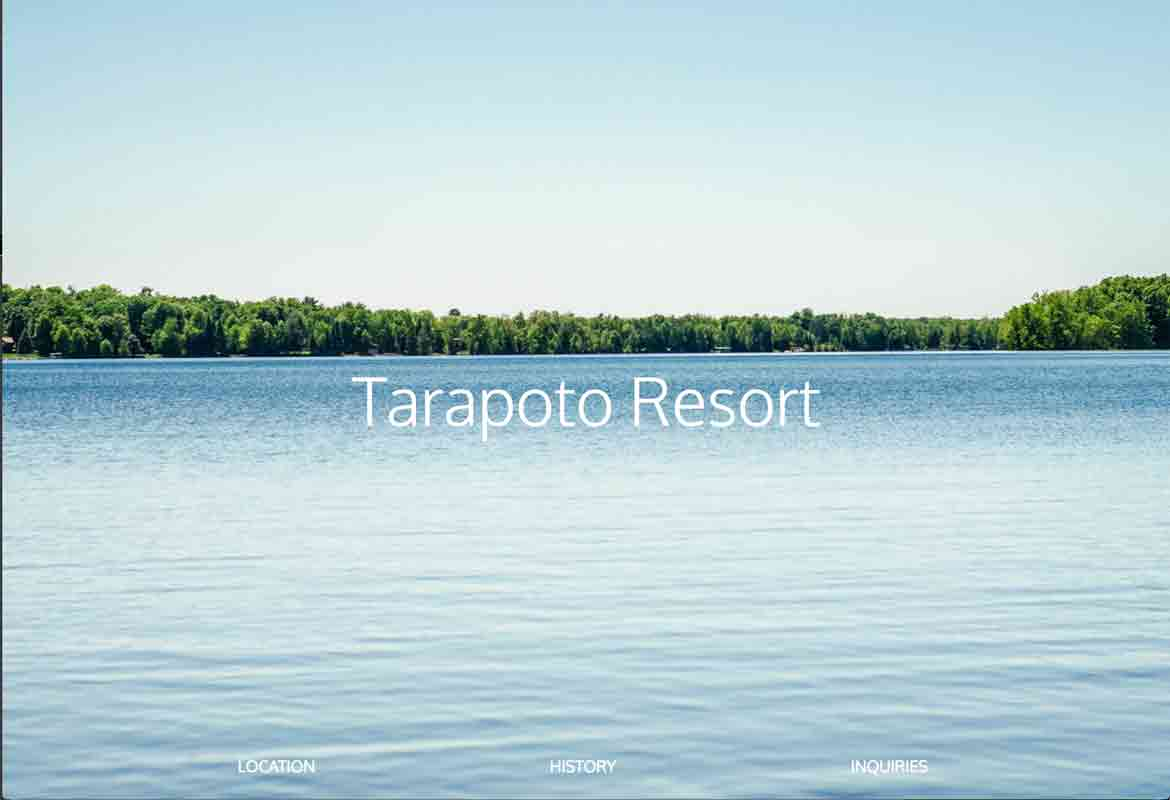
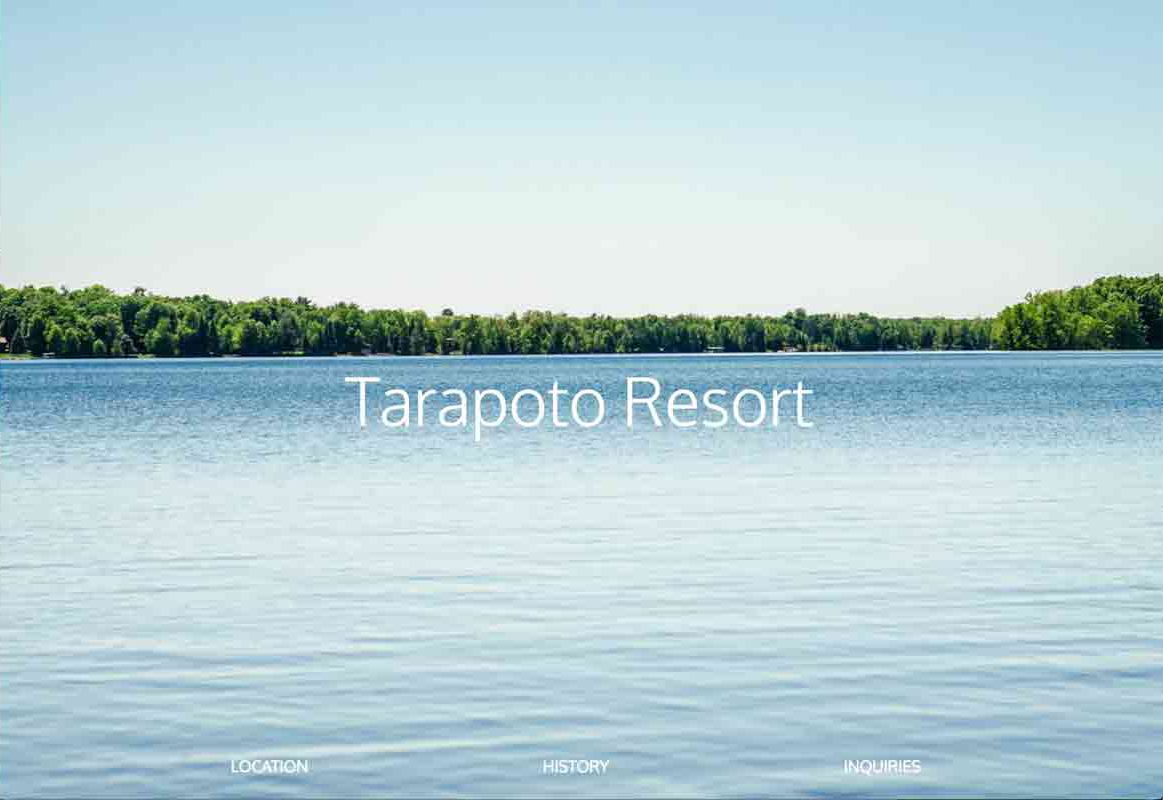
fixing mobile form font,and changing san isidro image

diff --git a/src/css/styles.css b/src/css/styles.css
@@ -338,7 +338,7 @@ a:hover, a:active {
 /* line 89, ../sass/styles.scss */
 .hero {
   position: relative;
-  background: url("/src/images/hero2.jpg") center center no-repeat;
+  background: url("/src/images/hero.jpg") center center no-repeat;
   background-size: cover;
   background-color: #000;
   height: 100vh;
@@ -822,21 +822,20 @@ header.portfolio-nav, footer.portfolio-footer, .button-background-color {
   input[type="text"] {
     padding: 25px 0;
     margin: 10px 0;
-    font-size: 18px;
   }
 
-  /* line 531, ../sass/styles.scss */
+  /* line 530, ../sass/styles.scss */
   input[type="text"], textarea {
     width: 90%;
   }
 
-  /* line 535, ../sass/styles.scss */
+  /* line 534, ../sass/styles.scss */
   footer .copyright, footer .social {
     float: none;
     margin: 0;
     padding-bottom: 10px;
   }
-  /* line 539, ../sass/styles.scss */
+  /* line 538, ../sass/styles.scss */
   footer .copyright h3, footer .copyright p, footer .copyright a, footer .social h3, footer .social p, footer .social a {
     text-align: center;
   }

diff --git a/src/sass/styles.scss b/src/sass/styles.scss
@@ -88,7 +88,7 @@ a {
 
 .hero {
 	position: relative;
-	background: url('/src/images/hero2.jpg') center center no-repeat;
+	background: url('/src/images/hero.jpg') center center no-repeat;
 	background-size: cover;
 	background-color: $black;
 	height: 100vh;
@@ -525,7 +525,6 @@ header.portfolio-nav, footer.portfolio-footer, .button-background-color {
 	input[type="text"] {
     	padding: 25px 0;
     	margin: 10px 0;
-    	font-size: 18px;
 	}
 
 	input[type="text"], textarea {

diff --git a/portfolio.php b/portfolio.php
@@ -22,14 +22,14 @@
 	   	<div class="portfolio-text pull-right">
 			<h2> Brandi </h2>
 			<ul>
+				<li>Single page dsesign</li>
 				<li>Responsive</li>
 				<li>HMTL5</li>
 				<li>CSS3</li>
 				<li>JavaScript</li>
 				<li>AJAX</li>
 				<li>JSON</li>
-				<li>Weather Underground API</li>
-				<li>Single page design</li>
+				<li>Wunderground API</li>
 			</ul>
 		</div>
 	</div>	
@@ -57,7 +57,7 @@
 
 	<div class="row">
 		<div class="portfolio-image pull-left">
-	   		<a href="http://tarapoto.neiljoshua.com" target="_blank" ><img src="src/images/tarapoto1.jpg" alt="tarapoto Resort" ></a>
+	   		<a href="http://tarapoto.neiljoshua.com" target="_blank" ><img src="src/images/tarapoto.jpg" alt="tarapoto Resort" ></a>
 	   	</div>	
 
 	   	<div class="portfolio-text pull-right">
@@ -76,7 +76,7 @@
 
 	<div class="row">
 		<div class="portfolio-image pull-right">
-	   		<a href="#" class="wordpress-site"><img src="src/images/sanisidro.jpg" alt="Wordpress" ></a>
+	   		<a href="#"><img src="src/images/building.jpg" alt="Wordpress" ></a>
 	   	</div>	
 
 	   	<div class="portfolio-text pull-left">
